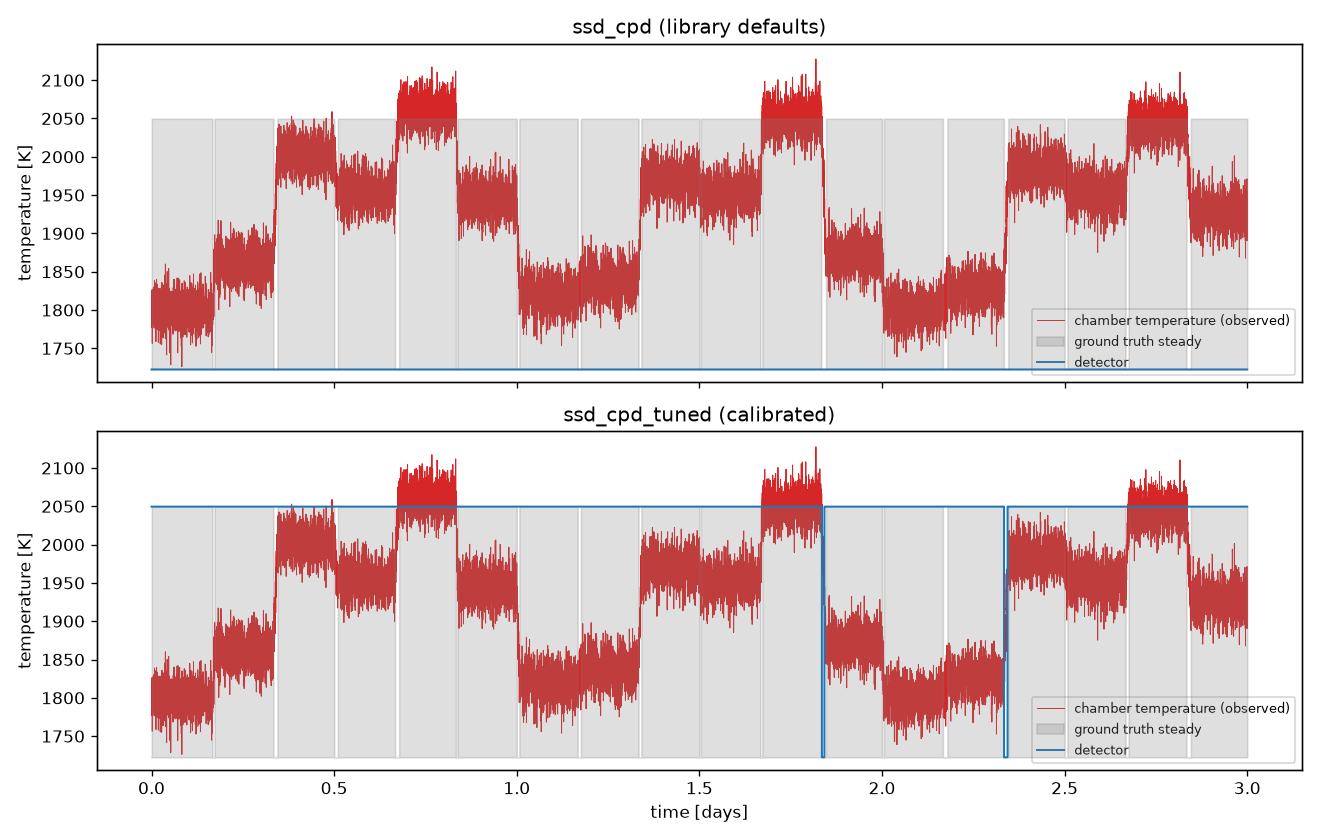
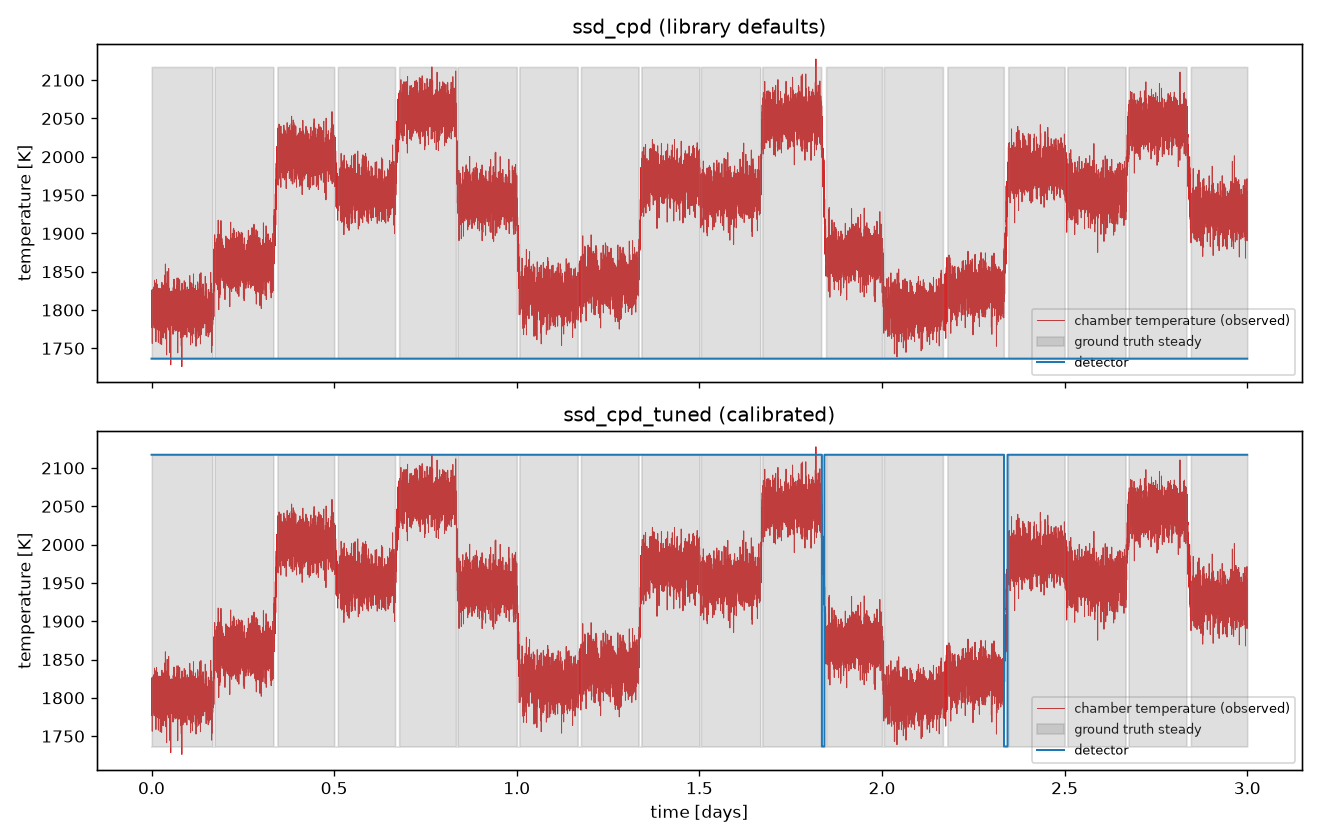
fix: correct detection plot caption and make 0/1 axis convention consistent across both panels

diff --git a/README.md b/README.md
@@ -148,9 +148,11 @@ tuned, against the ground-truth steady regions (shaded gray):
 ![ssd_cpd before and after tuning](samples/united_states/detection_before_after.png)
 
 The default (top) essentially never calls anything steady here, consistent
-with its poor aggregate F1 above. The tuned version (bottom) tracks the
-ground truth closely, correctly dropping to 0 during each ramp and
-recovering to 1 once the window settles.
+with its poor aggregate F1 above. The tuned version (bottom) correctly
+rests at 1 (steady) for most of the window, matching the dataset's 94.5%
+steady base rate, but only drops to 0 for 2 of the 17 true transitions in
+this 3-day slice; the rest pass through without a detected dip. That gap is
+exactly what its 0.945 precision (not 1.0) on temperature reflects.
 
 ```bash
 .venv/bin/python -c "
